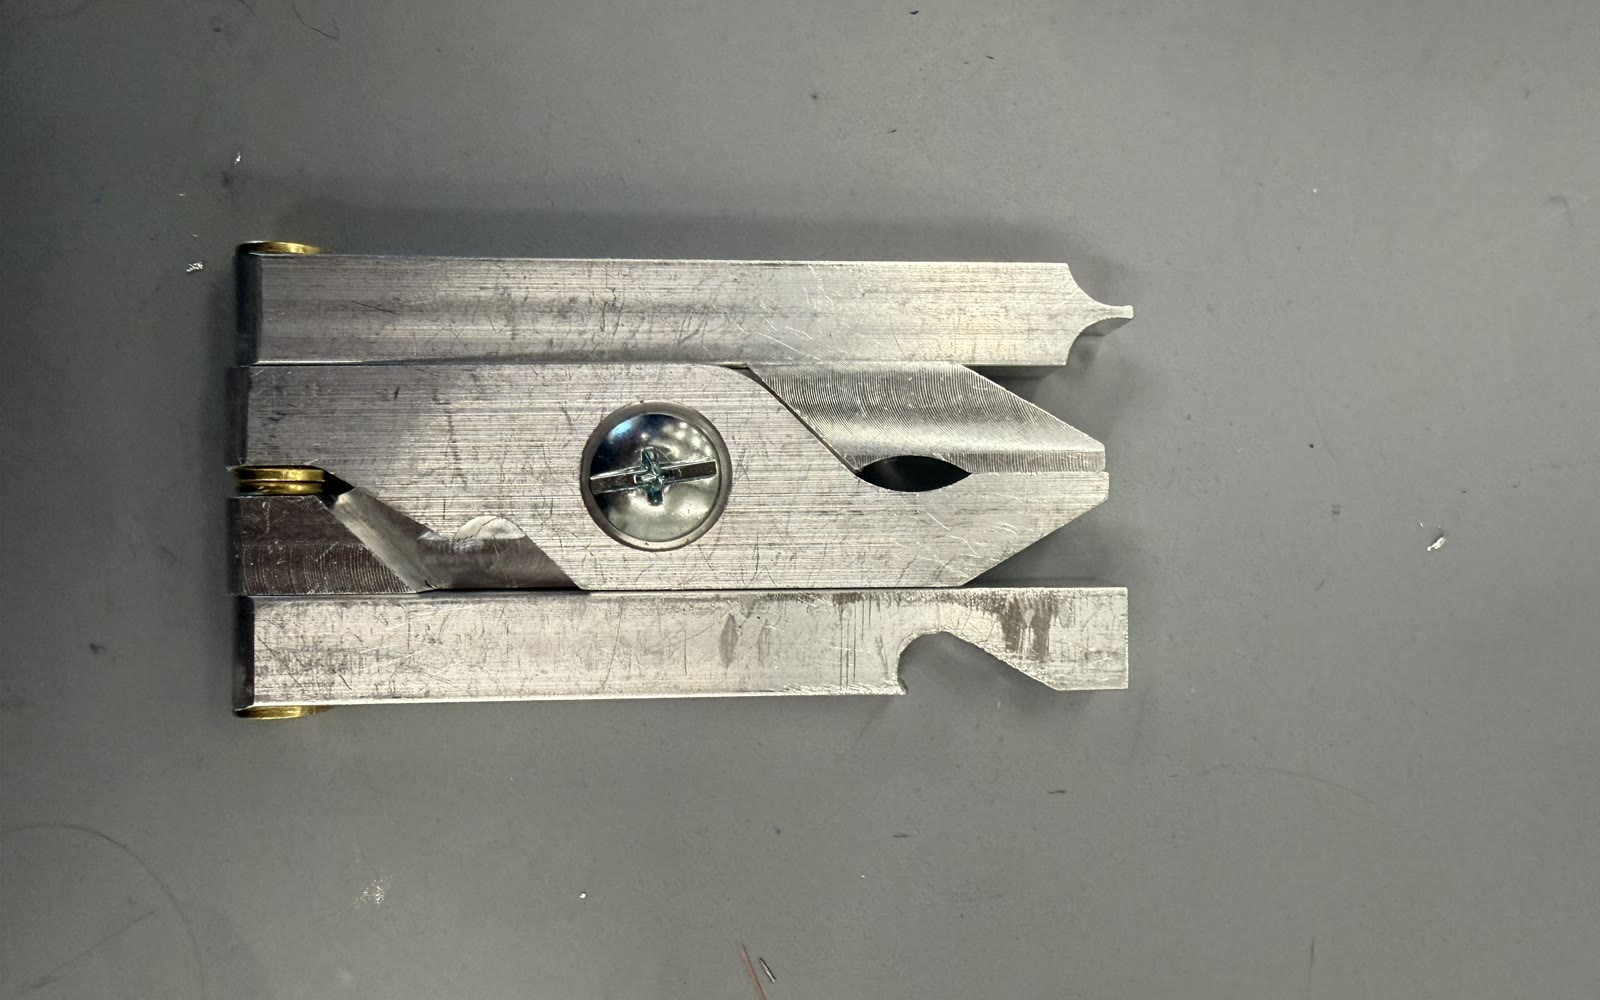
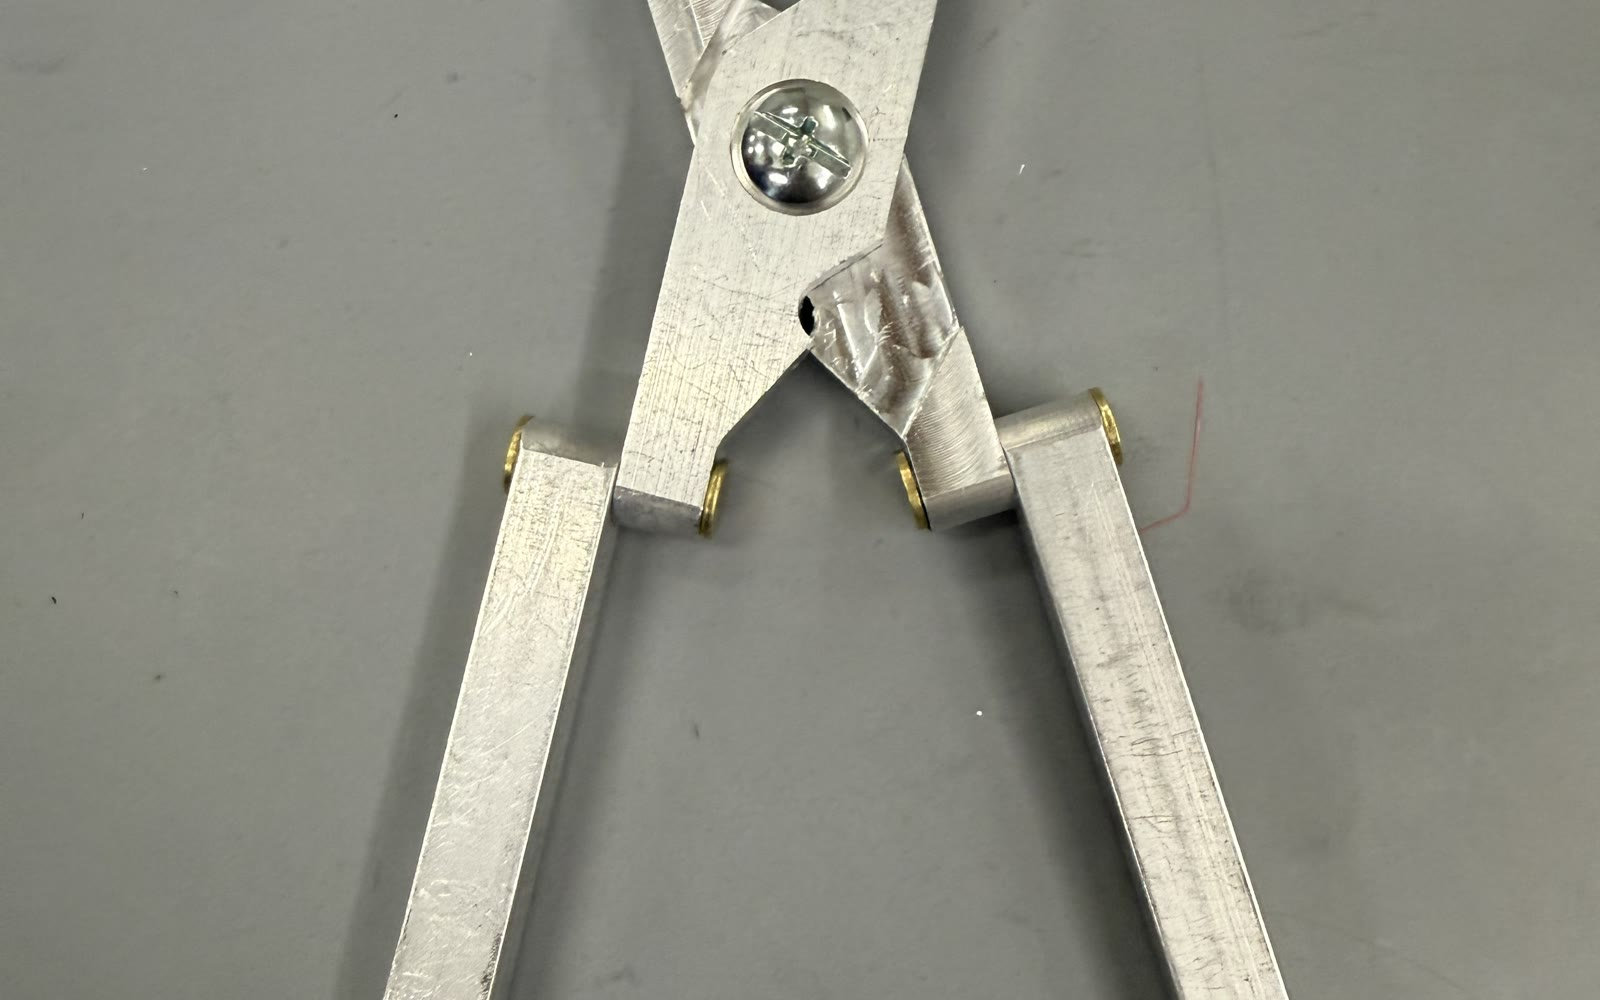
Revert hero project strip, fix multitool image order, autoplay videos
- Remove the featured-project image strip I added to the homepage hero;
  projects stay only in the Projects section (pager reverted to text)
- Regenerate multitool thumb from the laid-out photo and use it (not folded)
  as the first image beside the intro
- SafeVideo now autoplays + loops muted by default (short clips run on their
  own); apply the same to Turret, Coastal, and generic ProjectDetail videos
- Drop unused gearbox-hero thumb

diff --git a/src/shared/ui.jsx b/src/shared/ui.jsx
@@ -246,38 +246,24 @@ export function ProjectPager({ currentId }) {
 
   const PagerCard = ({ project, direction }) => {
     const isNext = direction === 'next'
-    const src = project.thumb || project.image
     return (
       <Link
         to={`/projects/${project.id}`}
-        className={`group relative flex-1 overflow-hidden rounded-xl border border-line bg-surface-2/50 hover:border-brand-500/40 hover:bg-surface-2 transition-all duration-200 ${isNext ? 'md:text-right' : ''}`}
+        className={`group relative flex-1 rounded-xl border border-line bg-surface-2/50 hover:border-brand-500/40 hover:bg-surface-2 transition-all duration-200 p-5 ${isNext ? 'md:text-right' : ''}`}
       >
-        {src && (
-          <div className={`relative h-24 overflow-hidden bg-surface-3 ${isNext ? '' : ''}`}>
-            <img
-              src={src}
-              alt=""
-              loading="lazy"
-              className="absolute inset-0 w-full h-full object-cover opacity-80 group-hover:opacity-95 transition-opacity"
-            />
-            <div className="absolute inset-0 bg-gradient-to-t from-surface-2 via-surface-2/40 to-transparent" />
+        <div className={`text-[10.5px] font-mono uppercase tracking-[0.22em] text-gray-500 flex items-center gap-1.5 ${isNext ? 'md:justify-end' : ''}`}>
+          {!isNext && <ArrowLeft className="w-3.5 h-3.5 text-brand-300" />}
+          {isNext ? 'Next case study' : 'Previous case study'}
+          {isNext && <ArrowRight className="w-3.5 h-3.5 text-brand-300" />}
+        </div>
+        <div className="mt-1 text-white font-semibold text-[15px] leading-snug">
+          {project.title}
+        </div>
+        {project.category && (
+          <div className="mt-1 text-[11px] font-mono uppercase tracking-[0.18em] text-brand-300/80">
+            {project.category}
           </div>
         )}
-        <div className="p-5 pt-4">
-          <div className={`text-[10.5px] font-mono uppercase tracking-[0.22em] text-gray-500 flex items-center gap-1.5 ${isNext ? 'md:justify-end' : ''}`}>
-            {!isNext && <ArrowLeft className="w-3.5 h-3.5 text-brand-300" />}
-            {isNext ? 'Next case study' : 'Previous case study'}
-            {isNext && <ArrowRight className="w-3.5 h-3.5 text-brand-300" />}
-          </div>
-          <div className="mt-1 text-white font-semibold text-[15px] leading-snug">
-            {project.title}
-          </div>
-          {project.category && (
-            <div className="mt-1 text-[11px] font-mono uppercase tracking-[0.18em] text-brand-300/80">
-              {project.category}
-            </div>
-          )}
-        </div>
       </Link>
     )
   }

diff --git a/src/components/Hero.jsx b/src/components/Hero.jsx
@@ -5,15 +5,11 @@
 // metric grid.
 
 import { useEffect, useRef, useState } from 'react'
-import { Link } from 'react-router-dom'
 import { motion, useReducedMotion } from 'framer-motion'
 import { ArrowRight, Circle } from 'lucide-react'
 import { site } from '../content/siteConfig'
-import { projects } from '../content/projects'
 import { CornerBrackets } from '../shared/ui'
 import ResumeLink from './ResumeLink'
-
-const FEATURED_IDS = ['multitool', 'gearbox']
 
 const container = {
   hidden: { opacity: 0 },
@@ -182,42 +178,6 @@ export default function Hero() {
             Explore projects
           </a>
           <ResumeLink />
-        </motion.div>
-
-        {/* Featured project visuals — updated hardware thumbs */}
-        <motion.div variants={item} className="mt-10 w-full max-w-3xl">
-          <div className="grid sm:grid-cols-2 gap-3">
-            {FEATURED_IDS.map((id) => {
-              const p = projects.find((x) => x.id === id)
-              if (!p) return null
-              const src = p.thumb || p.image
-              return (
-                <Link
-                  key={id}
-                  to={`/projects/${id}`}
-                  className="group relative overflow-hidden rounded-xl border border-line bg-surface-2/50 hover:border-brand-500/45 transition-colors"
-                >
-                  <div className="relative aspect-[16/10] overflow-hidden bg-surface-3">
-                    <img
-                      src={src}
-                      alt={p.title}
-                      loading="eager"
-                      className="absolute inset-0 w-full h-full object-cover transition-transform duration-500 group-hover:scale-[1.03]"
-                    />
-                    <div className="pointer-events-none absolute inset-x-0 bottom-0 h-20 bg-gradient-to-t from-surface-0/90 to-transparent" />
-                  </div>
-                  <div className="absolute bottom-0 left-0 right-0 p-3 text-left">
-                    <div className="text-[10px] font-mono uppercase tracking-[0.2em] text-brand-200/90">
-                      {p.category}
-                    </div>
-                    <div className="text-sm font-semibold text-white leading-snug mt-0.5 line-clamp-1">
-                      {p.title}
-                    </div>
-                  </div>
-                </Link>
-              )
-            })}
-          </div>
         </motion.div>
 
         {/* System readout */}

diff --git a/src/pages/projects/Turret.jsx b/src/pages/projects/Turret.jsx
@@ -6,6 +6,7 @@ import {
   ProjectPager, ProjectCTA, STARSection, AARSection,
 } from '../../shared/ui'
 import { projects } from '../../content/projects'
+import { SafeVideo } from '../../shared/Media'
 import { usePageMeta } from '../../shared/usePageMeta'
 import { motion } from 'framer-motion'
 import { Target, Eye, Cpu, GitMerge } from 'lucide-react'
@@ -89,14 +90,12 @@ export default function Turret() {
 
             <Glass pad={false}>
               <div className="p-4">
-                <div className="aspect-[16/10] rounded-xl border border-line bg-black overflow-hidden">
-                  <video
-                    src={project.printVideo || '/projects/turret-print.mp4'}
-                    controls
-                    className="w-full h-full object-contain"
-                    poster="/projects/print-turret.jpg"
-                  />
-                </div>
+                <SafeVideo
+                  src={project.printVideo || '/projects/turret-print.mp4'}
+                  poster="/projects/print-turret.jpg"
+                  label="Print timelapse"
+                  aspect="aspect-[16/10]"
+                />
               </div>
               <div className="px-5 py-4 border-t border-line">
                 <div className="text-white font-semibold">Print timelapse</div>
@@ -153,14 +152,12 @@ export default function Turret() {
           <div className="grid lg:grid-cols-2 gap-5">
             <Glass pad={false}>
               <div className="p-4">
-                <div className="aspect-[16/10] rounded-xl border border-line bg-black overflow-hidden">
-                  <video
-                    src={project.video || '/projects/turret-op.mp4'}
-                    controls
-                    className="w-full h-full object-contain"
-                    poster="/projects/turret-demo.jpg"
-                  />
-                </div>
+                <SafeVideo
+                  src={project.video || '/projects/turret-op.mp4'}
+                  poster="/projects/turret-demo.jpg"
+                  label="Live scan demonstration"
+                  aspect="aspect-[16/10]"
+                />
               </div>
               <div className="px-5 py-4 border-t border-line">
                 <div className="text-white font-semibold">Live scan demonstration</div>

diff --git a/src/shared/Media.jsx b/src/shared/Media.jsx
@@ -46,16 +46,33 @@ export function SafeImage({ src, alt, label, className = '', aspect = 'aspect-[1
   )
 }
 
-export function SafeVideo({ src, poster, label, className = '', aspect = 'aspect-video', fit = 'contain' }) {
+export function SafeVideo({
+  src,
+  poster,
+  label,
+  className = '',
+  aspect = 'aspect-video',
+  fit = 'contain',
+  autoPlay = true,
+  loop = true,
+  muted = true,
+  controls = true,
+}) {
   const [failed, setFailed] = useState(false)
+  // Browsers only allow autoplay when the video is muted, so a video that
+  // opts into autoPlay is forced-muted regardless of the muted prop.
+  const isMuted = muted || autoPlay
   return (
     <div className={`relative ${aspect} w-full overflow-hidden rounded-xl border border-line bg-black ${className}`}>
       {!failed ? (
         <video
           src={src}
           poster={poster}
-          controls
-          preload="metadata"
+          controls={controls}
+          autoPlay={autoPlay}
+          loop={loop}
+          muted={isMuted}
+          preload={autoPlay ? 'auto' : 'metadata'}
           playsInline
           onError={() => setFailed(true)}
           className={`w-full h-full ${fit === 'cover' ? 'object-cover' : 'object-contain'}`}

diff --git a/src/pages/projects/MultiToolFab.jsx b/src/pages/projects/MultiToolFab.jsx
@@ -181,8 +181,8 @@ export default function MultiToolFab() {
         subtitle="Fabricated a functional folding multi-tool assembly from raw aluminum stock using manual mill + CNC operations. Held ±0.005 in precision dimensions, 0.003 in parallelism, and 0.002 in flatness against a full GD&T drawing package, and inspected every feature back to the print."
         chips={project.tech || []}
         status={{ label: 'Completed', tone: 'idle' }}
-        image={project.thumb || project.imageFolded || '/projects/thumbs/multitool.jpg'}
-        imageAlt="Finished folding multi-tool"
+        image={project.thumb || project.image || '/projects/thumbs/multitool.jpg'}
+        imageAlt="Finished folding multi-tool laid out"
         imageFit="cover"
       >
         <div className="mt-2 text-[10.5px] font-mono uppercase tracking-[0.18em] text-gray-500">

diff --git a/src/pages/ProjectDetail.jsx b/src/pages/ProjectDetail.jsx
@@ -57,6 +57,11 @@ export default function ProjectDetail() {
                   <video
                     src={project.video}
                     controls
+                    autoPlay
+                    loop
+                    muted
+                    playsInline
+                    preload="auto"
                     className="w-full rounded-2xl bg-black object-cover"
                   />
                 </Glass>

diff --git a/src/pages/projects/Coastal.jsx b/src/pages/projects/Coastal.jsx
@@ -127,6 +127,11 @@ export default function Coastal() {
               <video
                 src="/projects/saipan.mp4"
                 controls
+                autoPlay
+                loop
+                muted
+                playsInline
+                preload="auto"
                 poster="/projects/cover.jpg"
                 className="w-full aspect-video rounded-t-2xl bg-black"
               />
